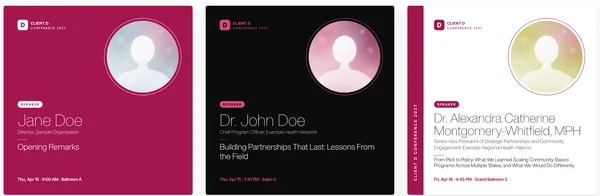
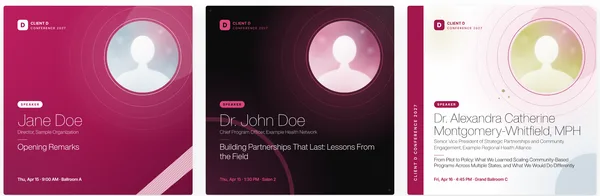
Speaker demo: designed backgrounds for all three templates
Claude-Session: https://claude.ai/code/session_017HaibtfYQPNReA1YdU6tnV

diff --git a/src/pages/lab/SpeakerGraphic.tsx b/src/pages/lab/SpeakerGraphic.tsx
@@ -182,6 +182,145 @@ function drawLogo(ctx: CanvasRenderingContext2D, x: number, y: number, size: num
   ctx.restore();
 }
 
+/** Background design for each template, drawn under the photo and text. Kept low-contrast so text stays legible. */
+function decorate(ctx: CanvasRenderingContext2D, tpl: Template, W: number, H: number, cx: number, cy: number, r: number, left: number) {
+  const glow = (x: number, y: number, rad: number, color: string, a: number) => {
+    const g = ctx.createRadialGradient(x, y, 0, x, y, rad);
+    g.addColorStop(0, rgba(color, a));
+    g.addColorStop(1, rgba(color, 0));
+    ctx.fillStyle = g;
+    ctx.fillRect(0, 0, W, H);
+  };
+  const rings = (color: string, alphas: number[], step: number) => {
+    ctx.lineWidth = 1.5;
+    alphas.forEach((a, i) => {
+      ctx.strokeStyle = rgba(color, a);
+      ctx.beginPath();
+      ctx.arc(cx, cy, r + 14 + step * (i + 1), 0, Math.PI * 2);
+      ctx.stroke();
+    });
+  };
+  ctx.save();
+  if (tpl === 'raspberry') {
+    const base = ctx.createLinearGradient(0, 0, W, H);
+    base.addColorStop(0, '#bd1f60');
+    base.addColorStop(0.55, '#a3164f');
+    base.addColorStop(1, '#6f0f3b');
+    ctx.fillStyle = base;
+    ctx.fillRect(0, 0, W, H);
+    glow(cx, cy, r * 2.4, '#f3d2dc', 0.32);
+    glow(0, H, Math.max(W, H) * 0.6, '#772450', 0.55);
+    // A large blush disc offset behind the photo.
+    ctx.fillStyle = 'rgba(243,210,220,0.17)';
+    ctx.beginPath();
+    ctx.arc(cx + r * 0.6, cy - r * 0.5, r * 1.2, 0, Math.PI * 2);
+    ctx.fill();
+    rings('#ffffff', [0.38, 0.24, 0.13, 0.06], r * 0.32);
+    // A striped ribbon across the lower right corner, after the ticking fabric.
+    ctx.save();
+    ctx.beginPath();
+    ctx.moveTo(W * 0.7, H);
+    ctx.lineTo(W, H * 0.74);
+    ctx.lineTo(W, H * 0.86);
+    ctx.lineTo(W * 0.83, H);
+    ctx.closePath();
+    ctx.fillStyle = 'rgba(243,210,220,0.9)';
+    ctx.fill();
+    ctx.clip();
+    ctx.strokeStyle = 'rgba(163,22,79,0.32)';
+    ctx.lineWidth = 2;
+    for (let d = W * 0.5; d < W * 1.4; d += 14) {
+      ctx.beginPath();
+      ctx.moveTo(d, H);
+      ctx.lineTo(d + H * 0.5, H * 0.5);
+      ctx.stroke();
+    }
+    ctx.restore();
+    // A small dot field in the lower right corner.
+    ctx.fillStyle = 'rgba(255,255,255,0.16)';
+    for (let x = W - 36; x > W - 36 - 26 * 7; x -= 26)
+      for (let y = H - 36; y > H - 36 - 26 * 5; y -= 26) {
+        ctx.beginPath();
+        ctx.arc(x, y, 2.4, 0, Math.PI * 2);
+        ctx.fill();
+      }
+  } else if (tpl === 'noir') {
+    glow(cx, cy, r * 2.7, '#e0457f', 0.5);
+    // An oversized raspberry ring sweeping in from the lower left.
+    ctx.strokeStyle = 'rgba(224,69,127,0.3)';
+    ctx.lineWidth = Math.round(W * 0.022);
+    ctx.beginPath();
+    ctx.arc(W * 0.04, H * 1.02, Math.min(W, H) * 0.42, 0, Math.PI * 2);
+    ctx.stroke();
+    glow(0, H, Math.max(W, H) * 0.7, '#772450', 0.55);
+    glow(W, 0, r * 1.4, '#c9d6df', 0.1);
+    // Faint diagonal lines across the frame.
+    ctx.strokeStyle = 'rgba(255,255,255,0.06)';
+    ctx.lineWidth = 1;
+    for (let d = -H; d < W; d += 26) {
+      ctx.beginPath();
+      ctx.moveTo(d, H);
+      ctx.lineTo(d + H, 0);
+      ctx.stroke();
+    }
+    rings('#e0457f', [0.48, 0.28, 0.14], r * 0.34);
+    // Crosshair marks in the corners, like registration marks on a print sheet.
+    ctx.strokeStyle = 'rgba(255,255,255,0.3)';
+    ctx.lineWidth = 1.5;
+    for (const [x, y] of [
+      [28, 28],
+      [W - 28, H - 28],
+    ]) {
+      ctx.beginPath();
+      ctx.moveTo(x - 9, y);
+      ctx.lineTo(x + 9, y);
+      ctx.moveTo(x, y - 9);
+      ctx.lineTo(x, y + 9);
+      ctx.stroke();
+    }
+  } else {
+    glow(cx, cy, r * 2.5, '#f3d2dc', 0.85);
+    // Colour discs: blush behind the photo, icy blue in the lower right, olive accents.
+    ctx.fillStyle = 'rgba(243,210,220,0.75)';
+    ctx.beginPath();
+    ctx.arc(cx + r * 0.55, cy - r * 0.45, r * 1.15, 0, Math.PI * 2);
+    ctx.fill();
+    ctx.fillStyle = 'rgba(201,214,223,0.7)';
+    ctx.beginPath();
+    ctx.arc(W * 0.98, H * 0.98, Math.min(W, H) * 0.2, 0, Math.PI * 2);
+    ctx.fill();
+    ctx.fillStyle = 'rgba(127,124,30,0.55)';
+    for (const [x, y, d] of [
+      [cx - r * 1.2, cy + r * 0.95, 9],
+      [cx - r * 1.05, cy + r * 1.12, 5],
+      [cx - r * 1.32, cy + r * 1.16, 4],
+    ]) {
+      ctx.beginPath();
+      ctx.arc(x, y, d, 0, Math.PI * 2);
+      ctx.fill();
+    }
+    glow(W, H, Math.max(W, H) * 0.55, '#c9d6df', 0.6);
+    glow(left + 40, H * 0.15, r * 0.9, '#e8e2c4', 0.5);
+    // A faint gingham grid, after the fabrics on the portfolio.
+    ctx.strokeStyle = 'rgba(163,22,79,0.05)';
+    ctx.lineWidth = 1;
+    for (let x = left - 20; x < W; x += 24) {
+      ctx.beginPath();
+      ctx.moveTo(x, 0);
+      ctx.lineTo(x, H);
+      ctx.stroke();
+    }
+    for (let y = 0; y < H; y += 24) {
+      ctx.beginPath();
+      ctx.moveTo(left - 20, y);
+      ctx.lineTo(W, y);
+      ctx.stroke();
+    }
+    rings('#a3164f', [0.42, 0.24, 0.11], r * 0.3);
+  }
+  ctx.restore();
+}
+
 type State = Speaker & { format: Format; template: Template; zoom: number; dx: number; dy: number };
 
 function draw(canvas: HTMLCanvasElement, s: State, photo: Photo, family: string, bold: string) {
@@ -217,6 +356,21 @@ function draw(canvas: HTMLCanvasElement, s: State, photo: Photo, family: string,
   const r = square ? W * 0.19 : H * 0.3;
   const cx = square ? W - pad - r : left + r;
   const cy = square ? pad + r + 6 : H / 2;
+  decorate(ctx, s.template, W, H, cx, cy, r, left);
+  if (s.template === 'paper') {
+    // Redraw the band so the background design sits behind it.
+    const band = square ? 92 : 76;
+    ctx.fillStyle = t.accent;
+    ctx.fillRect(0, 0, band, H);
+    ctx.save();
+    ctx.translate(band / 2 + 8, H - pad);
+    ctx.rotate(-Math.PI / 2);
+    ctx.fillStyle = '#ffffff';
+    ctx.font = `600 ${square ? 22 : 18}px ${bold}`;
+    ctx.letterSpacing = '6px';
+    ctx.fillText(EVENT.toUpperCase(), 0, 0);
+    ctx.restore();
+  }
   ctx.save();
   ctx.beginPath();
   ctx.arc(cx, cy, r, 0, Math.PI * 2);
